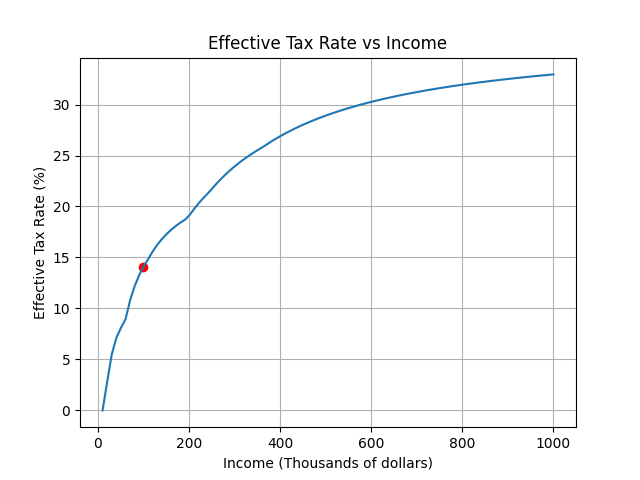
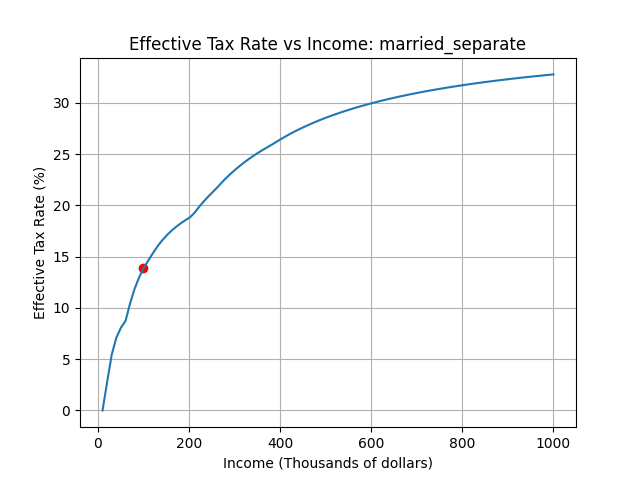
Actually update tax brackets

diff --git a/taxes/graph.py b/taxes/graph.py
@@ -68,6 +68,7 @@ def plot_effective_taxes(
     highlighted_income=None,
     highlighted_etr=None,
     unit=100000,
+    mode=None
 ):
     unit_str = unit_to_string(unit)
     incomes = incomes / unit
@@ -76,11 +77,12 @@ def plot_effective_taxes(
     plt.plot(incomes, effective_tax_rates)
     plt.xlabel(f'Income ({unit_str})')
     plt.ylabel('Effective Tax Rate (%)')
-    plt.title('Effective Tax Rate vs Income')
+    plt.title(f'Effective Tax Rate vs Income: {mode}')
     if highlighted_income is not None:
         plt.scatter(highlighted_income, highlighted_etr, color='red')
     plt.grid(True)
     plt.savefig(filename)
+    print(filename)
 
 
 def preprocess_cfg(cfg: DictConfig) -> DotMap:
@@ -109,6 +111,7 @@ def main(cfg: DictConfig) -> None:
         highlighted_income=c.ref_income,
         highlighted_etr=highlighted_etr,
         unit=c.unit,
+        mode=cfg.mode
     )
 
 
